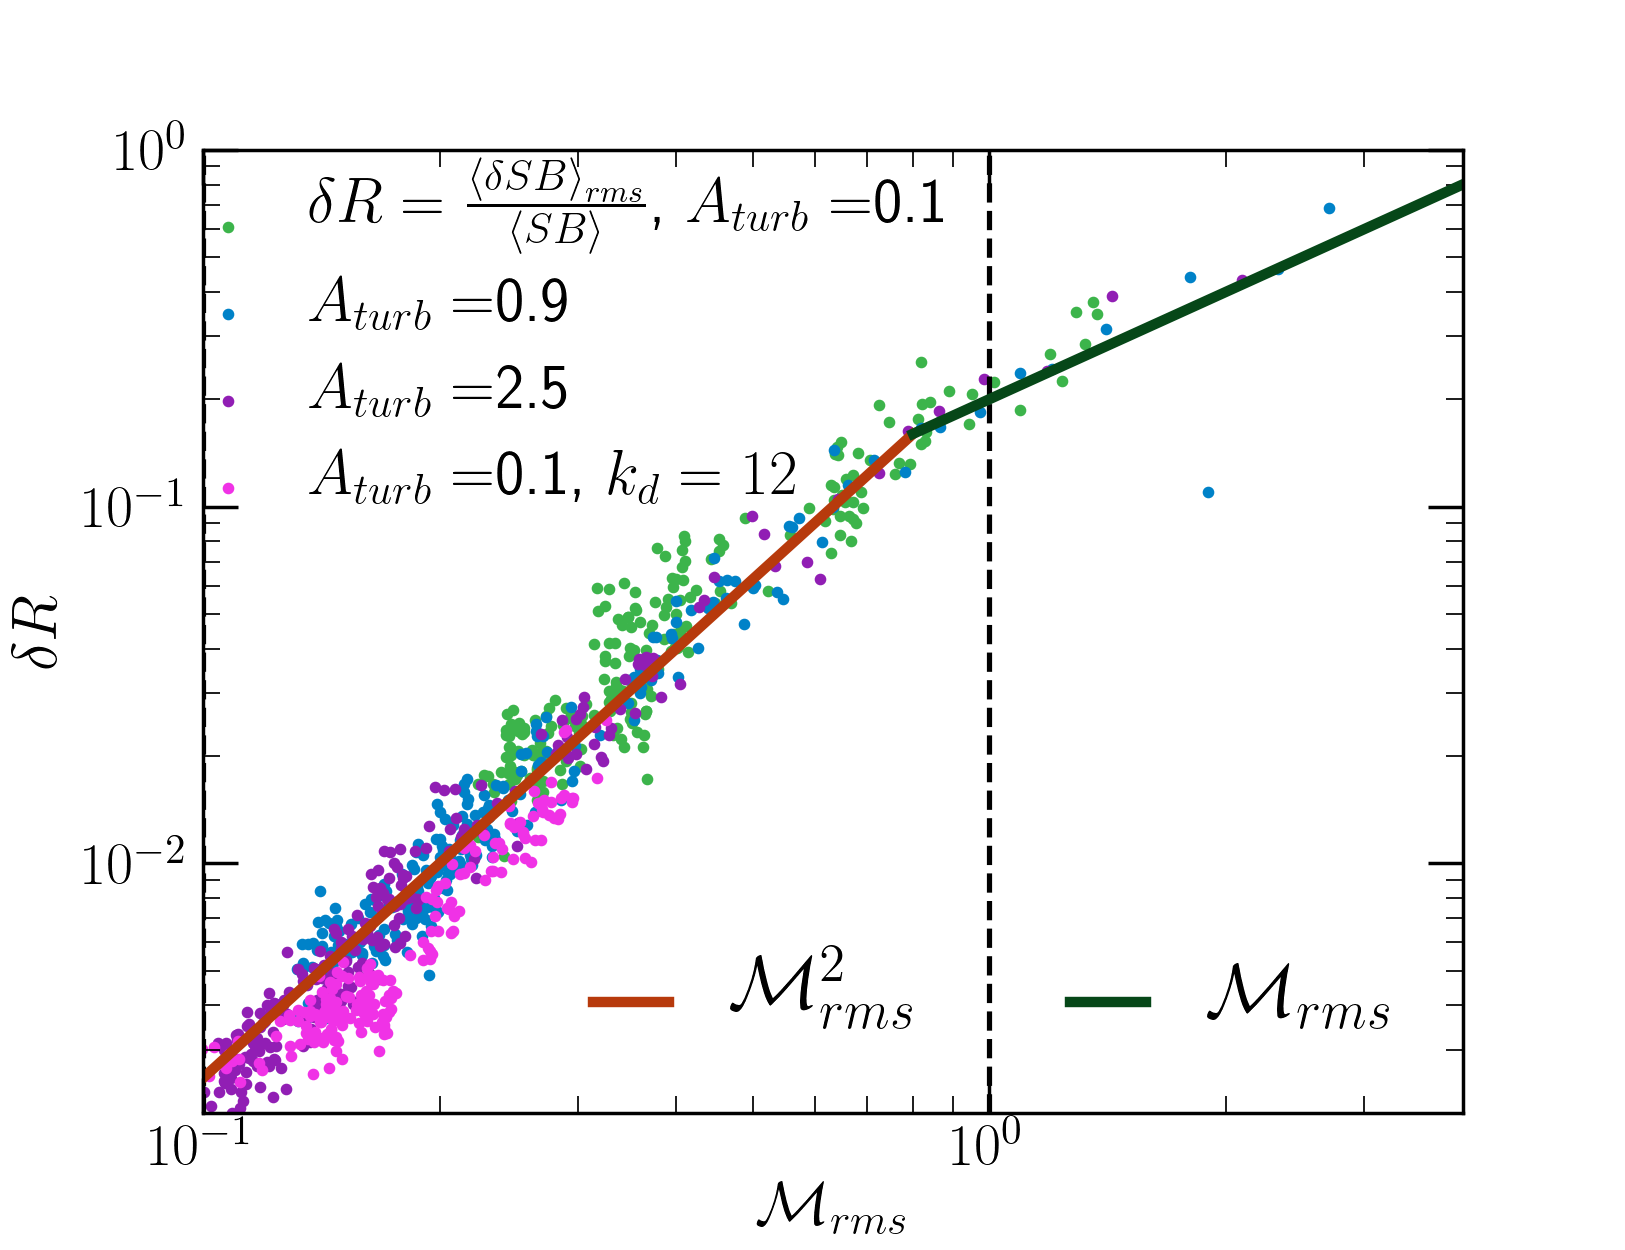
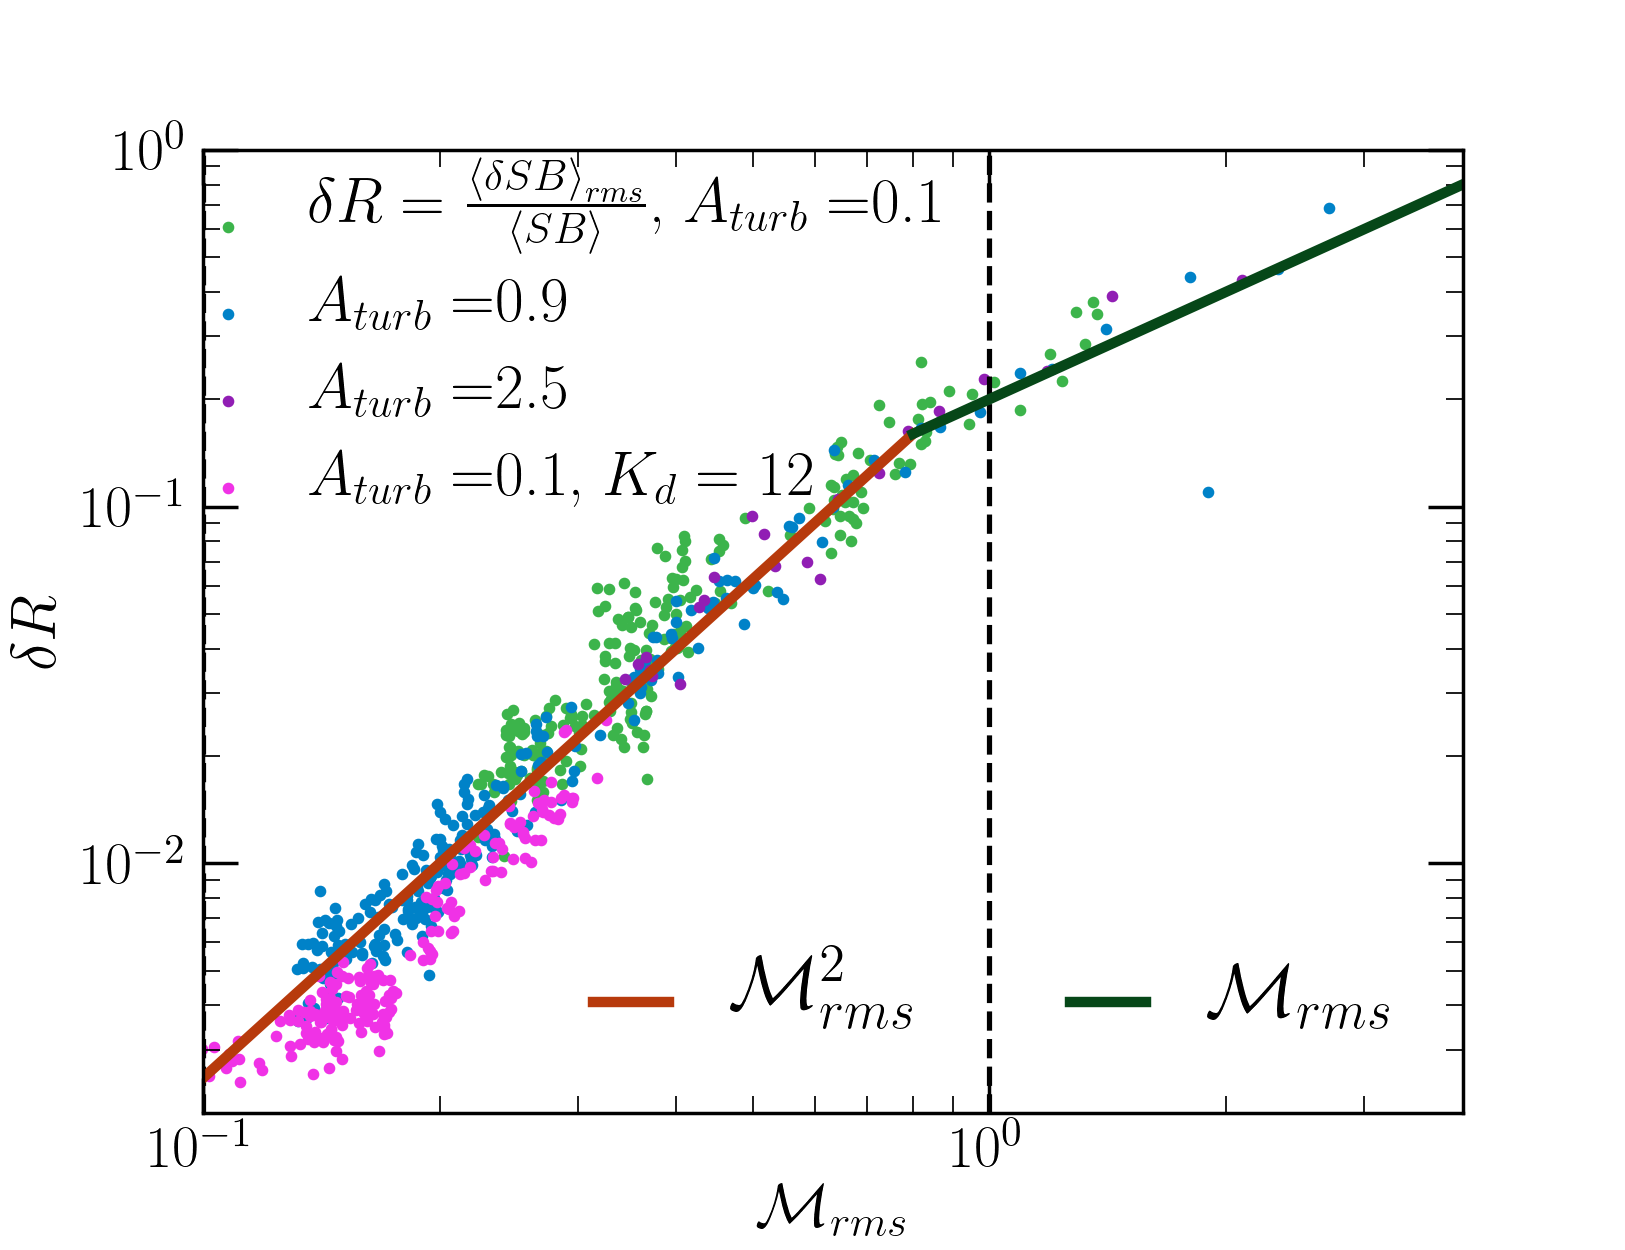
edited plots

diff --git a/surface_brightness/sb_mach_fiducial.py b/surface_brightness/sb_mach_fiducial.py
@@ -33,9 +33,9 @@ colors=np.array(colors)/255.
 fig, ax = plt.subplots()
 for i1 in xrange(0,np.shape(amp)[0]):
 #	fig, ax = plt.subplots(1)
-	filedir='/mnt/lustre/ug4/ugrajs/fiducial_runs/256/amp'+str(int(amp[i1]*10000)).rjust(5,'0')+'/run2/'
+	filedir='/mnt/lustre/phy/phyprtek/RAJ_RUNS/fiducial_data/amp'+str(int(amp[i1]*10000)).rjust(5,'0')+'/run2/'
 	if (i1==3):
-		filedir='/mnt/lustre/ug4/ugrajs/higher_k/256/k12/amp00100/'
+		filedir='/mnt/lustre/phy/phyprtek/RAJ_RUNS/fiducial_data/k12/amp00100/'
 	snaps=int((end[i1]-start[i1])/step_size-1)
 	mach_rms=np.zeros((snaps))
 	del_R=np.zeros((snaps))
@@ -54,7 +54,7 @@ for i1 in xrange(0,np.shape(amp)[0]):
 	elif(i1>0 and i1<3): 
 		perturb[i1] =ax.scatter(mach_rms, del_R, label=r'$A_{turb}=$'+str(amp[i1]), color=colors[2*i1+1], marker=".", s=22.)
  	else:
-		perturb[i1] =ax.scatter(mach_rms, del_R, label=r'$A_{turb}=$'+str(amp[i1])+', $k_d=12$', color=colors[7], marker=".", s=22.)
+		perturb[i1] =ax.scatter(mach_rms, del_R, label=r'$A_{turb}=$'+str(amp[i1])+', $K_d=12$', color=colors[7], marker=".", s=22.)
 
 fig.set_size_inches(6.5, 5.)
 ax.set_xlabel(r'$\mathcal{M}_{rms}$', fontsize=18)

diff --git a/rho-mach/density_mach_256.py b/rho-mach/density_mach_256.py
@@ -66,8 +66,8 @@ for i in xrange(0,data_kh.shape[0]):
     break
 data_kh=data_kh[:][i:]
 #Ignore data before statistical equilibrium state
-perturb1[i1+1], =ax.plot(data_kh[:,11],1.5*data_kh[:,12],label=r'$A_{turb}=$'+str(amp[0])+', $k_d=12$', color=colors[8], marker=".", markeredgecolor='none', markersize=0.1, linewidth=1.5)
-perturb2[i1+1], =ax.plot(data_kh[:,11],data_kh[:,13],label=r'$A_{turb}=$'+str(amp[0])+', $k_d=12$', color=colors[7], marker="d", markeredgecolor='none', markersize=0.1, linewidth=1.5)
+perturb1[i1+1], =ax.plot(data_kh[:,11],1.5*data_kh[:,12],label=r'$A_{turb}=$'+str(amp[0])+', $K_d=12$', color=colors[8], marker=".", markeredgecolor='none', markersize=0.1, linewidth=1.5)
+perturb2[i1+1], =ax.plot(data_kh[:,11],data_kh[:,13],label=r'$A_{turb}=$'+str(amp[0])+', $K_d=12$', color=colors[7], marker="d", markeredgecolor='none', markersize=0.1, linewidth=1.5)
 
 
 fit[0],= ax.plot(x1,0.6*x1**2,label=r'$\mathcal{M}_{rms}^2$', color=colors[6], linewidth=2.5)
